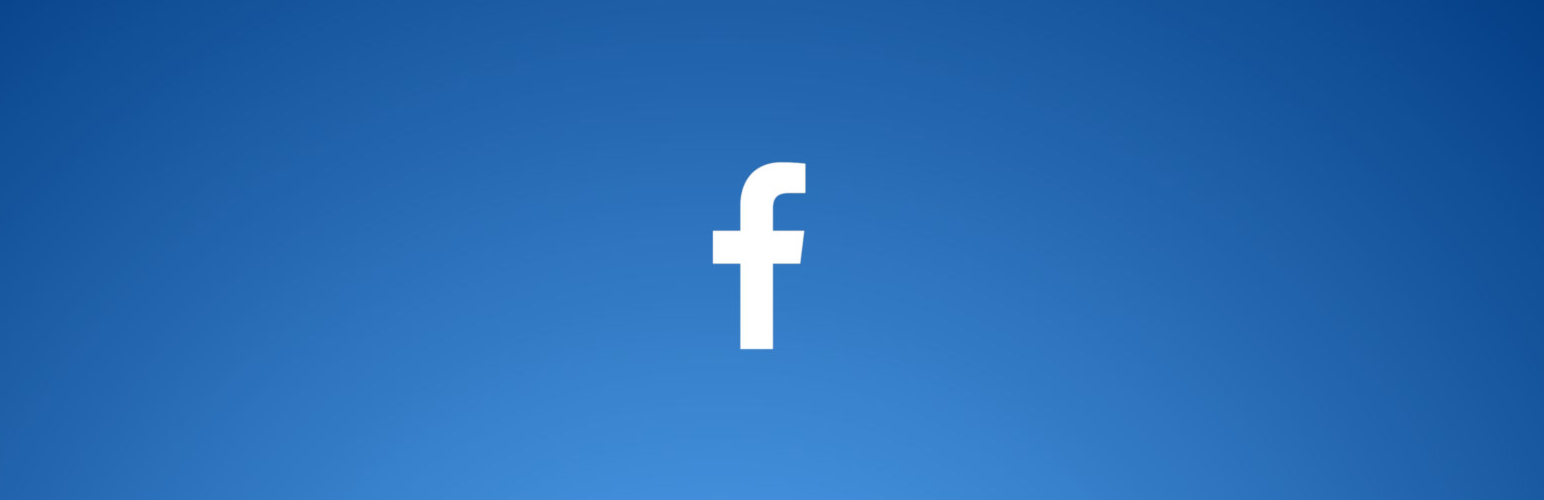
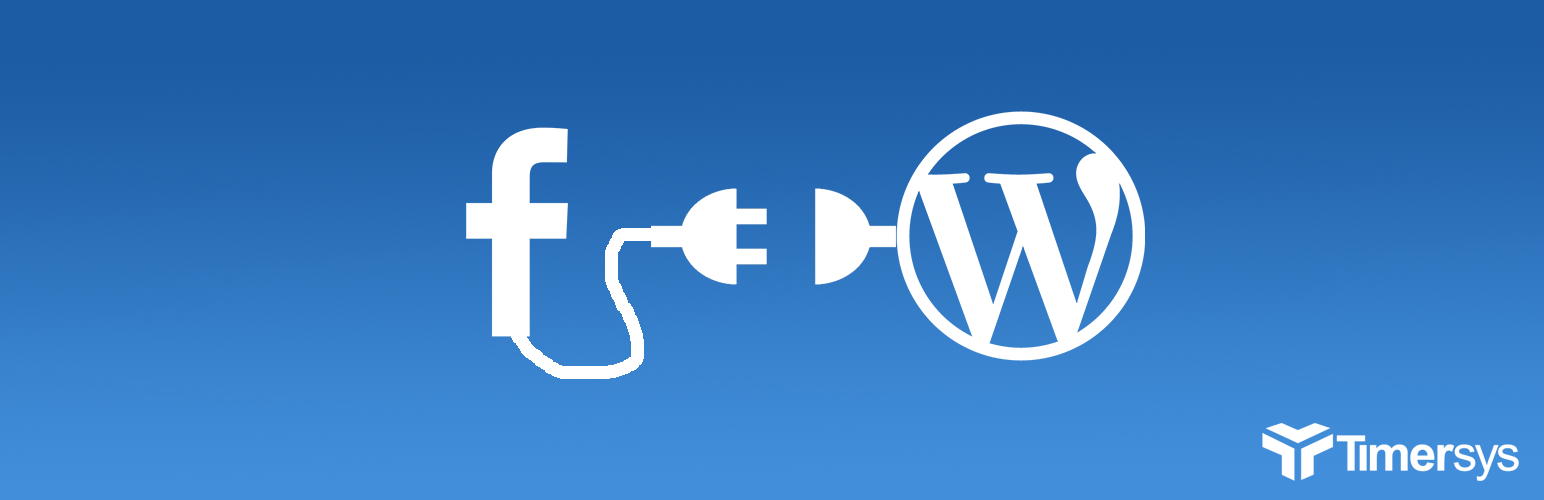
branding changes

Changed region(s): [[0.7461, 0.0, 1.0, 1.0], [0.2798, 0.21, 0.7461, 0.78], [0.0, 0.39, 0.1865, 1.0]]

diff --git a/trunk/facebook-login.php b/trunk/facebook-login.php
@@ -7,10 +7,10 @@
  * @package           Facebook_Login
  *
  * @wordpress-plugin
- * Plugin Name:       Facebook Login
- * Plugin URI:        http://wordpress.org/plugins/facebook-login
+ * Plugin Name:       Facebook Login for WordPress
+ * Plugin URI:        http://wordpress.org/plugins/wp-facebook-login
  * Description:       Facebook Login. Simple adds a facebook login button into wp-login.php and let you use fb avatars, period.
- * Version:           1.2.3
+ * Version:           1.2.3.1
  * Author:            Damian Logghe
  * Author URI:        https://timersys.com
  * License:           GPL-2.0+
